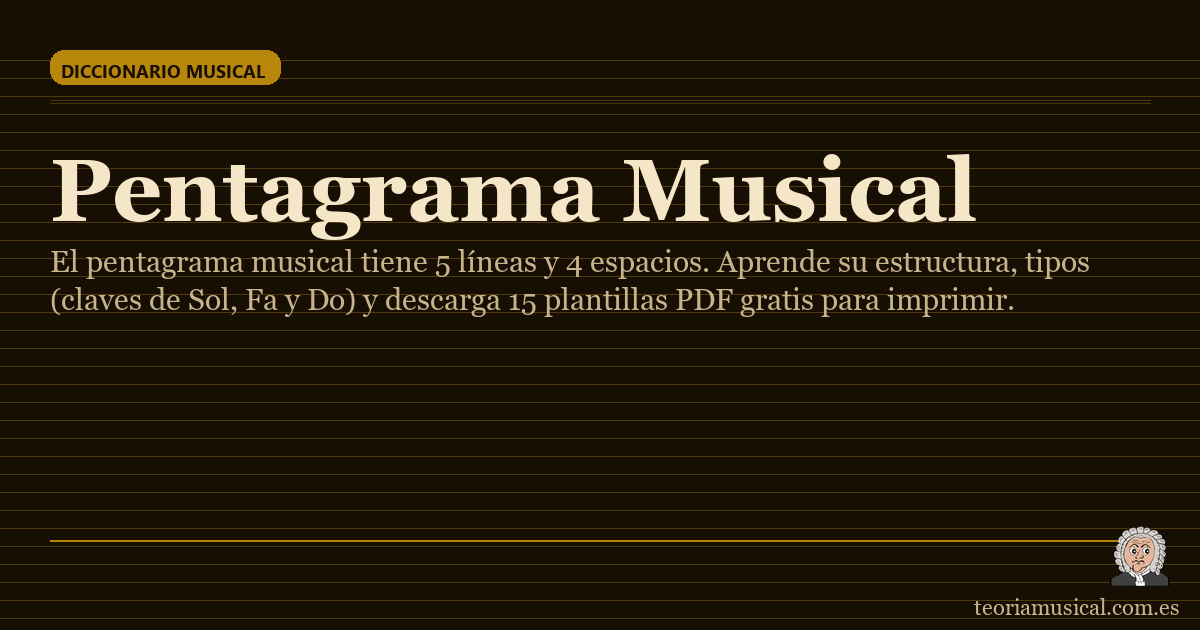
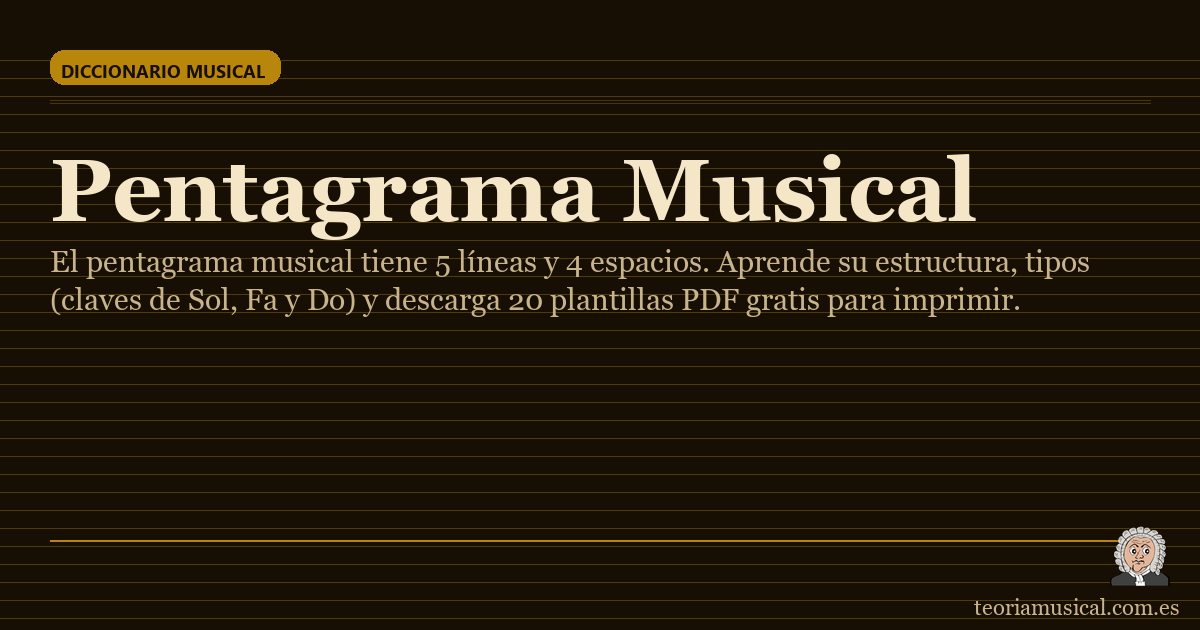
indices

Changed region(s): [[0.4317, 0.4524, 0.8325, 0.5127]]

diff --git a/diccionario-musical/indice-acustico/index.html b/diccionario-musical/indice-acustico/index.html
@@ -1,0 +1,327 @@
+<!DOCTYPE html>
+<html lang="es">
+<head>
+<meta charset="utf-8">
+<meta name="viewport" content="width=device-width, initial-scale=1">
+<title>Índice Acústico: Sistema Internacional y Franco-Belga</title>
+<meta name="description" content="El índice acústico numera las octavas para nombrar cada nota. Diferencias entre el sistema internacional (Do central = Do4) y el franco-belga (Do3), con tabla de equivalencias.">
+<link rel="canonical" href="https://www.teoriamusical.com.es/diccionario-musical/indice-acustico/">
+<meta property="og:title" content="Índice Acústico: Sistema Internacional y Franco-Belga">
+<meta property="og:description" content="El índice acústico numera las octavas para nombrar cada nota. Diferencias entre el sistema internacional (Do central = Do4) y el franco-belga (Do3), con tabla de equivalencias.">
+<meta property="og:image" content="https://www.teoriamusical.com.es/assets/img/og-pages/og-diccionario-musical-indice-acustico.png">
+<meta property="og:type" content="article">
+<meta property="og:url" content="https://www.teoriamusical.com.es/diccionario-musical/indice-acustico/">
+<meta property="og:locale" content="es_ES">
+<meta property="og:site_name" content="Teoría Musical">
+<meta name="twitter:card" content="summary_large_image">
+<meta name="twitter:title" content="Índice Acústico: Sistema Internacional y Franco-Belga">
+<meta name="twitter:description" content="El índice acústico numera las octavas para nombrar cada nota. Diferencias entre el sistema internacional (Do central = Do4) y el franco-belga (Do3), con tabla de equivalencias.">
+<meta name="twitter:image" content="https://www.teoriamusical.com.es/assets/img/og-pages/og-diccionario-musical-indice-acustico.png">
+<meta name="robots" content="index, follow, max-snippet:-1, max-image-preview:large, max-video-preview:-1">
+<link rel="icon" href="/assets/img/favicon.png" type="image/png">
+
+<!-- Google Search Console verification -->
+<meta name="google-site-verification" content="-bWygyA80PPsmSsmf6FQ_oZs6YeGjN95HzprqD07fos">
+
+<!-- Google Consent Mode v2 — defaults denied until user consents -->
+<script>
+  window['googlefc'] = window['googlefc'] || {};
+  window['googlefc'].controlledMessagingFunction = function(m){ m.proceed(false); };
+  window.dataLayer = window.dataLayer || [];
+  function gtag(){dataLayer.push(arguments);}
+  gtag('consent', 'default', {
+    'ad_storage':            'denied',
+    'ad_user_data':          'denied',
+    'ad_personalization':    'denied',
+    'analytics_storage':     'denied',
+    'functionality_storage': 'granted',
+    'security_storage':      'granted',
+    'wait_for_update':       500
+  });
+  try {
+    var m = document.cookie.match('(?:^|; )tm_cookie_consent=([^;]*)');
+    if (m) {
+      var p = JSON.parse(decodeURIComponent(m[1]));
+      gtag('consent', 'update', {
+        analytics_storage:  p.analytics   ? 'granted' : 'denied',
+        ad_storage:         p.advertising ? 'granted' : 'denied',
+        ad_user_data:       p.advertising ? 'granted' : 'denied',
+        ad_personalization: p.advertising ? 'granted' : 'denied'
+      });
+    }
+  } catch (e) {}
+</script>
+
+<link rel="preload" href="/assets/fonts/inter-latin.woff2" as="font" type="font/woff2" crossorigin>
+<link rel="preload" href="/assets/fonts/playfair-latin.woff2" as="font" type="font/woff2" crossorigin>
+<link rel="stylesheet" href="/assets/css/style.css?v=3d026e09">
+
+<script type="application/ld+json">
+{"@context":"https://schema.org","@type":"Article","headline":"Índice Acústico","description":"El índice acústico numera las octavas para nombrar cada nota. Diferencias entre el sistema internacional (Do central = Do4) y el franco-belga (Do3), con tabla de equivalencias.","url":"https://www.teoriamusical.com.es/diccionario-musical/indice-acustico/","inLanguage":"es","isAccessibleForFree":true,"image":{"@type":"ImageObject","url":"https://www.teoriamusical.com.es/assets/img/og-pages/og-diccionario-musical-indice-acustico.png"},"datePublished":"2026-06-08","dateModified":"2026-06-08","author":{"@type":"Person","name":"Eduardo Escrig Zomeño","url":"https://www.teoriamusical.com.es/sobre-mi/"},"mainEntityOfPage":{"@type":"WebPage","@id":"https://www.teoriamusical.com.es/diccionario-musical/indice-acustico/"},"publisher":{"@type":"Organization","name":"Teoría Musical","url":"https://www.teoriamusical.com.es","logo":{"@type":"ImageObject","url":"https://www.teoriamusical.com.es/assets/img/favicon.png"}}}
+</script>
+<script type="application/ld+json">
+{"@context":"https://schema.org","@type":"BreadcrumbList","itemListElement":[{"@type":"ListItem","position":1,"name":"Inicio","item":"https://www.teoriamusical.com.es/"},{"@type":"ListItem","position":2,"name":"Diccionario Musical","item":"https://www.teoriamusical.com.es/diccionario-musical/"},{"@type":"ListItem","position":3,"name":"Índice Acústico","item":"https://www.teoriamusical.com.es/diccionario-musical/indice-acustico/"}]}
+</script>
+<script type="application/ld+json">
+{"@context":"https://schema.org","@type":"FAQPage","mainEntity":[{"@type":"Question","name":"¿Qué es el índice acústico?","acceptedAnswer":{"@type":"Answer","text":"El índice acústico es el número que se añade al nombre de una nota para indicar a qué octava pertenece, y así identificar su altura exacta. Por ejemplo, Do3 y Do4 son dos «do» distintos separados por una octava. Sirve para no confundir notas con el mismo nombre pero distinta altura."}},{"@type":"Question","name":"¿El Do central es Do3 o Do4?","acceptedAnswer":{"@type":"Answer","text":"Depende del sistema. En el sistema internacional o científico, el Do central del piano (261,63 Hz) es Do4. En el sistema franco-belga, el más usado en España y los conservatorios de tradición francesa, ese mismo Do central es Do3. Es la misma nota; solo cambia el número."}},{"@type":"Question","name":"¿En qué se diferencian el índice internacional y el franco-belga?","acceptedAnswer":{"@type":"Answer","text":"En el punto de partida de la numeración. El número del sistema franco-belga es siempre una unidad menor que el del internacional: el Do central es Do4 en internacional y Do3 en franco-belga, y el La del diapasón (440 Hz) es La4 e La3 respectivamente. La nota suena igual; solo cambia la cifra del índice."}},{"@type":"Question","name":"¿Qué sistema se usa en España?","acceptedAnswer":{"@type":"Answer","text":"En España y en los conservatorios de tradición francesa y belga se usa tradicionalmente el sistema franco-belga (Do central = Do3). El sistema internacional o científico (Do central = Do4) es el estándar en el resto del mundo y el que emplean los programas de edición musical, sintetizadores y MIDI."}},{"@type":"Question","name":"¿Cómo se convierte de un sistema a otro?","acceptedAnswer":{"@type":"Answer","text":"Basta con sumar o restar 1 al número. Para pasar de franco-belga a internacional se suma 1 (Do3 → Do4); para pasar de internacional a franco-belga se resta 1 (La4 → La3). El nombre de la nota no cambia, solo el índice."}}]}
+</script>
+</head>
+<body class="tm-page">
+<a class="tm-skip" href="#main">Saltar al contenido</a>
+
+<!-- Cookie consent (RGPD) -->
+<div id="tm-cookie-overlay" role="dialog" aria-modal="true" aria-labelledby="tm-cookie-title">
+  <div id="tm-cookie-modal">
+    <div id="tm-cookie-icon" aria-hidden="true">
+      <svg width="40" height="40" viewBox="0 0 40 40" fill="none" xmlns="http://www.w3.org/2000/svg">
+        <circle cx="20" cy="20" r="18.5" stroke="#b8860b" stroke-width="1.5" fill="#faf8f4"/>
+        <circle cx="14" cy="15" r="2.2" fill="#b8860b"/>
+        <circle cx="24" cy="13" r="1.7" fill="#b8860b"/>
+        <circle cx="27" cy="24" r="2.2" fill="#b8860b"/>
+        <circle cx="16" cy="26" r="1.7" fill="#b8860b"/>
+        <circle cx="21" cy="20" r="1.1" fill="#b8860b"/>
+      </svg>
+    </div>
+    <h2 id="tm-cookie-title">Usamos cookies</h2>
+    <p id="tm-cookie-desc">
+      Utilizamos cookies propias —necesarias para el funcionamiento del sitio— y de
+      terceros para análisis del tráfico y publicidad. Puedes aceptarlas, rechazar las
+      opcionales o configurarlas según tus preferencias.
+      <a href="/politica-de-cookies/" id="tm-privacy-link" rel="noopener noreferrer">Política de cookies</a>.
+    </p>
+    <div id="tm-cookie-panel" hidden>
+      <div class="tm-toggle-row">
+        <div class="tm-toggle-info">
+          <strong>Necesarias</strong>
+          <span>Imprescindibles para el funcionamiento del sitio. No se pueden desactivar.</span>
+        </div>
+        <div class="tm-toggle-wrap tm-toggle-forced">
+          <input type="checkbox" id="tm-chk-necessary" checked disabled>
+          <label for="tm-chk-necessary" class="tm-switch-label"></label>
+        </div>
+      </div>
+      <div class="tm-toggle-row">
+        <div class="tm-toggle-info">
+          <strong>Analíticas</strong>
+          <span>Miden el tráfico y el comportamiento de navegación (Google Analytics 4).</span>
+        </div>
+        <div class="tm-toggle-wrap">
+          <input type="checkbox" id="tm-chk-analytics">
+          <label for="tm-chk-analytics" class="tm-switch-label"></label>
+        </div>
+      </div>
+      <div class="tm-toggle-row">
+        <div class="tm-toggle-info">
+          <strong>Publicitarias</strong>
+          <span>Permiten mostrar anuncios relevantes según tus intereses (Google AdSense).</span>
+        </div>
+        <div class="tm-toggle-wrap">
+          <input type="checkbox" id="tm-chk-advertising">
+          <label for="tm-chk-advertising" class="tm-switch-label"></label>
+        </div>
+      </div>
+    </div>
+    <div id="tm-cookie-actions">
+      <button id="tm-btn-accept"    class="tm-btn tm-btn-primary">Aceptar todo</button>
+      <button id="tm-btn-necessary" class="tm-btn tm-btn-secondary">Solo necesarias</button>
+      <button id="tm-btn-configure" class="tm-btn tm-btn-link">Configurar</button>
+      <button id="tm-btn-save"      class="tm-btn tm-btn-primary" hidden>Guardar preferencias</button>
+    </div>
+  </div>
+</div>
+<button id="tm-cookie-trigger" aria-label="Gestionar cookies" title="Gestionar cookies" hidden>
+  <svg width="20" height="20" viewBox="0 0 40 40" fill="none" xmlns="http://www.w3.org/2000/svg">
+    <circle cx="20" cy="20" r="18.5" stroke="currentColor" stroke-width="2" fill="none"/>
+    <circle cx="14" cy="15" r="2.2" fill="currentColor"/>
+    <circle cx="24" cy="13" r="1.7" fill="currentColor"/>
+    <circle cx="27" cy="24" r="2.2" fill="currentColor"/>
+    <circle cx="16" cy="26" r="1.7" fill="currentColor"/>
+    <circle cx="21" cy="20" r="1.1" fill="currentColor"/>
+  </svg>
+</button>
+<script src="/assets/js/consent.js?v=61ac92f0" defer></script>
+
+<header class="tm-site-header">
+  <div class="tm-container tm-header-inner">
+    <a class="tm-brand" href="/">
+      <span class="tm-brand-mark"><img src="/assets/img/favicon-32.png" width="32" height="32" alt=""></span>
+      <span class="tm-brand-text">Teoría Musical</span>
+    </a>
+    <button class="tm-nav-toggle" aria-label="Menú" aria-expanded="false" aria-controls="tm-nav">
+      <span></span><span></span><span></span>
+    </button>
+    <nav id="tm-nav" class="tm-nav" aria-label="Principal">
+      <ul class="tm-nav-list">
+        <li><a href="/" class="">Inicio</a></li>
+        <li><a href="/diccionario-musical/" class="is-active">Diccionario Musical</a></li>
+        <li><a href="/ejercicios/" class="">Ejercicios</a></li>
+        <li class="tm-has-sub"><a href="/herramientas/" class="">Herramientas</a>
+        <ul class="tm-subnav">
+          <li><a href="/herramientas/metronomo/">Metrónomo</a></li>
+          <li><a href="/herramientas/afinador/">Afinador</a></li>
+        </ul>
+      </li>
+        <li><a href="/blog/" class="">Blog</a></li>
+        <li><a href="/test-tecnico-de-laboratorio/" class="">Test Laboratorio</a></li>
+      </ul>
+    </nav>
+  </div>
+</header>
+
+<main id="main" class="tm-main">
+
+  <nav class="tm-breadcrumb" aria-label="Migas">
+    <div class="tm-container">
+      <a href="/">Inicio</a><span class="tm-crumb-sep">›</span><a href="/diccionario-musical/">Diccionario Musical</a><span class="tm-crumb-sep">›</span><span aria-current="page">Índice Acústico</span>
+    </div>
+  </nav>
+
+<header class="tm-page-header"><div class="tm-container"><h1>Índice Acústico</h1></div></header>
+<div class="tm-container tm-article-wrap">
+  <article class="tm-article tm-article--wide">
+
+<p>El <strong>índice acústico</strong> es el <strong>número</strong> que se añade al nombre de una nota para indicar a qué <strong>octava</strong> pertenece. Como el nombre «Do» se repite en cada octava, el índice nos dice <em>de qué Do</em> hablamos: el Do central, el de una octava por encima, etc. El problema es que existen <strong>dos sistemas de numeración</strong> distintos —el internacional y el franco-belga— y eso provoca que una misma nota reciba números diferentes.</p>
+
+<h2>¿Qué es el índice acústico?</h2>
+
+<p>Cada <a href="/diccionario-musical/nombres-de-las-notas-musicales/">nota</a> tiene un nombre (Do, Re, Mi…) y una <strong>altura</strong> concreta. Pero ese nombre se repite octava tras octava: hay muchos «Do» en un piano. El índice acústico resuelve la ambigüedad <strong>numerando las octavas</strong>: a cada nota se le añade la cifra de la octava a la que pertenece (Do3, La4, Fa5…). Así, <strong>Do3 y Do4 son dos notas distintas</strong> separadas por una octava.</p>
+
+<p>El número cambia cada vez que se llega a un <strong>Do</strong>: todas las notas desde un Do hasta el siguiente comparten el mismo índice. Por ejemplo, partiendo del Do central en el sistema franco-belga: Do3, Re3, Mi3, Fa3, Sol3, La3, Si3 y, al llegar al siguiente Do, empieza la serie 4.</p>
+
+<div class="tm-ad">
+<ins class="adsbygoogle" style="display:block" data-ad-client="ca-pub-1186627650857489" data-ad-slot="3473898651" data-ad-format="auto" data-full-width-responsive="true"></ins>
+</div>
+
+<h2>El sistema internacional (o científico)</h2>
+
+<p>El <strong>índice acústico internacional</strong> —también llamado <strong>científico</strong> (<em>Scientific Pitch Notation</em>)— es el estándar en la mayor parte del mundo. Numera las octavas empezando por la más grave: asigna el <strong>0</strong> al Do más grave del órgano (Do0, de 16,35 Hz). En este sistema:</p>
+
+<ul>
+  <li>El <strong>Do central</strong> del piano (261,63 Hz) es el <strong>Do4</strong>.</li>
+  <li>El <strong>La del diapasón</strong> (440 Hz) es el <strong>La4</strong>.</li>
+</ul>
+
+<p>Es el sistema que utilizan los <strong>programas de edición musical</strong>, los sintetizadores, el protocolo MIDI y la mayoría de la bibliografía internacional.</p>
+
+<h2>El sistema franco-belga</h2>
+
+<p>El <strong>índice acústico franco-belga</strong> es el que se usa tradicionalmente en <strong>España</strong> y en los conservatorios de tradición francesa y belga. Numera las octavas con un punto de partida distinto, de modo que el mismo Do central recibe un número una unidad menor:</p>
+
+<ul>
+  <li>El <strong>Do central</strong> del piano (261,63 Hz) es el <strong>Do3</strong>.</li>
+  <li>El <strong>La del diapasón</strong> (440 Hz) es el <strong>La3</strong>.</li>
+</ul>
+
+<p>Para las notas más graves, este sistema recurre a <strong>índices negativos</strong> (Do₋₁, Do₋₂…). El Do más grave del órgano, que en el sistema internacional es Do0, aquí se llama Do₋₁.</p>
+
+<h2>Tabla de equivalencias</h2>
+
+<p>La regla es sencilla: <strong>el número del sistema franco-belga es siempre una unidad menor que el del internacional.</strong> La nota suena exactamente igual; solo cambia la cifra. Esta tabla recoge las octavas del Do en el rango musical habitual:</p>
+
+<div class="tm-table-wrap">
+<table class="tm-table">
+  <thead>
+    <tr><th>Internacional (científico)</th><th>Franco-belga</th><th>Referencia</th></tr>
+  </thead>
+  <tbody>
+    <tr><td>Do0</td><td>Do₋₁</td><td>Do más grave del órgano (16,35 Hz)</td></tr>
+    <tr><td>Do1</td><td>Do0</td><td>—</td></tr>
+    <tr><td>Do2</td><td>Do1</td><td>Do en la 2ª línea adicional inferior (clave de Fa)</td></tr>
+    <tr><td>Do3</td><td>Do2</td><td>—</td></tr>
+    <tr><td><strong>Do4</strong></td><td><strong>Do3</strong></td><td><strong>Do central (261,63 Hz)</strong></td></tr>
+    <tr><td>Do5</td><td>Do4</td><td>—</td></tr>
+    <tr><td>Do6</td><td>Do5</td><td>—</td></tr>
+    <tr><td>Do7</td><td>Do6</td><td>—</td></tr>
+    <tr><td>Do8</td><td>Do7</td><td>Casi el límite agudo del piano</td></tr>
+  </tbody>
+</table>
+</div>
+
+<p>Y el caso más citado, el <strong>La del diapasón</strong>: es <strong>La4</strong> en el sistema internacional y <strong>La3</strong> en el franco-belga, las dos a 440 Hz.</p>
+
+<h2>¿Cuál debo usar?</h2>
+
+<p>Depende del contexto. Si estudias en un <strong>conservatorio español</strong> o con material de tradición franco-belga, usarás <strong>Do3</strong> como Do central. Si trabajas con <strong>software musical, sintetizadores o bibliografía internacional</strong>, el Do central será <strong>Do4</strong>. Lo importante es <strong>indicar siempre qué sistema usas</strong> para evitar malentendidos: la misma cifra señala notas distintas según el sistema. Para convertir, basta con sumar 1 (de franco-belga a internacional) o restar 1 (de internacional a franco-belga).</p>
+
+<p>Este índice se apoya en conceptos como el <a href="/diccionario-musical/pentagramas/">pentagrama</a>, las <a href="/diccionario-musical/claves-musicales/">claves</a> y los <a href="/diccionario-musical/nombres-de-las-notas-musicales/">nombres de las notas</a>: el Do central, por ejemplo, es la nota de referencia que une la clave de Sol y la clave de Fa.</p>
+
+<section class="tm-seccion">
+<div class="tm-seccion-inner">
+<div class="tm-seccion-cabecera">
+<h2 class="tm-seccion-titulo">Preguntas <span>Frecuentes</span></h2>
+</div>
+<div>
+<div class="tm-faq-list">
+<div class="tm-faq-item">
+<div class="tm-faq-q">¿Qué es el índice acústico?</div>
+<div class="tm-faq-a">El índice acústico es el número que se añade al nombre de una nota para indicar a qué octava pertenece, y así identificar su altura exacta. Por ejemplo, Do3 y Do4 son dos «do» distintos separados por una octava. Sirve para no confundir notas con el mismo nombre pero distinta altura.</div>
+</div>
+<div class="tm-faq-item">
+<div class="tm-faq-q">¿El Do central es Do3 o Do4?</div>
+<div class="tm-faq-a">Depende del sistema. En el sistema internacional o científico, el Do central del piano (261,63 Hz) es Do4. En el sistema franco-belga, el más usado en España y los conservatorios de tradición francesa, ese mismo Do central es Do3. Es la misma nota; solo cambia el número.</div>
+</div>
+<div class="tm-faq-item">
+<div class="tm-faq-q">¿En qué se diferencian el índice internacional y el franco-belga?</div>
+<div class="tm-faq-a">En el punto de partida de la numeración. El número del sistema franco-belga es siempre una unidad menor que el del internacional: el Do central es Do4 en internacional y Do3 en franco-belga, y el La del diapasón (440 Hz) es La4 y La3 respectivamente. La nota suena igual; solo cambia la cifra del índice.</div>
+</div>
+<div class="tm-faq-item">
+<div class="tm-faq-q">¿Qué sistema se usa en España?</div>
+<div class="tm-faq-a">En España y en los conservatorios de tradición francesa y belga se usa tradicionalmente el sistema franco-belga (Do central = Do3). El sistema internacional o científico (Do central = Do4) es el estándar en el resto del mundo y el que emplean los programas de edición musical, sintetizadores y MIDI.</div>
+</div>
+<div class="tm-faq-item">
+<div class="tm-faq-q">¿Cómo se convierte de un sistema a otro?</div>
+<div class="tm-faq-a">Basta con sumar o restar 1 al número. Para pasar de franco-belga a internacional se suma 1 (Do3 → Do4); para pasar de internacional a franco-belga se resta 1 (La4 → La3). El nombre de la nota no cambia, solo el índice.</div>
+</div>
+</div>
+</div>
+</div>
+</section>
+
+<div class="tm-ad">
+<ins class="adsbygoogle" style="display:block" data-ad-client="ca-pub-1186627650857489" data-ad-slot="2439863051" data-ad-format="auto" data-full-width-responsive="true"></ins>
+</div>
+
+</article>
+</div>
+
+</main>
+
+<footer class="tm-site-footer">
+  <div class="tm-container tm-footer-inner">
+    <div class="tm-footer-col">
+      <h3>Teoría Musical</h3>
+      <p>Música desde sus fundamentos: diccionario, ejercicios interactivos y herramientas gratuitas.</p>
+    </div>
+    <div class="tm-footer-col">
+      <h3>Secciones</h3>
+      <ul>
+        <li><a href="/diccionario-musical/">Diccionario Musical</a></li>
+        <li><a href="/ejercicios/">Ejercicios Musicales</a></li>
+        <li class="tm-has-sub"><a href="/herramientas/">Herramientas</a>
+        <ul class="tm-subnav">
+          <li><a href="/herramientas/metronomo/">Metrónomo</a></li>
+          <li><a href="/herramientas/afinador/">Afinador</a></li>
+        </ul>
+      </li>
+        <li><a href="/blog/">Blog</a></li>
+      </ul>
+    </div>
+    <div class="tm-footer-col">
+      <h3>Información</h3>
+      <ul>
+        <li><a href="/sobre-mi/">Sobre mí</a></li>
+        <li><a href="/contacto/">Contacto</a></li>
+        <li><a href="/aviso-legal/">Aviso legal</a></li>
+        <li><a href="/politica-de-privacidad/">Política de privacidad</a></li>
+        <li><a href="/politica-de-cookies/">Política de cookies</a></li>
+      </ul>
+    </div>
+  </div>
+  <div class="tm-footer-bottom">
+    <p>© <span id="tm-year"></span> Teoría Musical — Eduardo Escrig Zomeño. Todos los derechos reservados.</p>
+  </div>
+</footer>
+
+<script src="/assets/js/main.js?v=58d478c2" defer></script>
+</body>
+</html>

diff --git a/diccionario-musical/index.html b/diccionario-musical/index.html
@@ -305,6 +305,11 @@
     <div class="tm-card-dic-titulo">Claves Musicales</div>
     <div class="tm-card-dic-desc">Clave de sol, fa y do. Cómo leer notas según la clave.</div>
   </a>
+  <a href="/diccionario-musical/indice-acustico/" class="tm-card-dic">
+    <div class="tm-card-dic-icono">Do₄</div>
+    <div class="tm-card-dic-titulo">Índice Acústico</div>
+    <div class="tm-card-dic-desc">Numerar las octavas: sistema internacional (Do4) y franco-belga (Do3).</div>
+  </a>
   <a href="/diccionario-musical/alteraciones/" class="tm-card-dic">
     <div class="tm-card-dic-icono">♯♭</div>
     <div class="tm-card-dic-titulo">Alteraciones</div>

diff --git a/diccionario-musical/claves-musicales/index.html b/diccionario-musical/claves-musicales/index.html
@@ -416,7 +416,7 @@
 
 <h2 id="h-equivalencias">Equivalencias entre claves</h2>
 
-<p>Todas las claves representan los mismos sonidos; lo único que cambia es <strong>dónde se coloca cada altura</strong> en el pentagrama. El punto de referencia común es el <strong>Do central</strong>: una misma nota se escribe en una posición distinta en cada clave. Por eso, al cambiar de clave, una nota «sube» o «baja» de línea aunque suene exactamente igual.</p>
+<p>Todas las claves representan los mismos sonidos; lo único que cambia es <strong>dónde se coloca cada altura</strong> en el pentagrama. El punto de referencia común es el <strong>Do central</strong>: una misma nota se escribe en una posición distinta en cada clave. Por eso, al cambiar de clave, una nota «sube» o «baja» de línea aunque suene exactamente igual. Para nombrar a qué octava pertenece cada nota (por ejemplo Do3 o Do4) se usa el <a href="/diccionario-musical/indice-acustico/">índice acústico</a>.</p>
 
 <figure class="tm-staff">
 <picture><source type="image/webp" srcset="/assets/img/claves/equivalencia-claves-do-central.webp"><img src="/assets/img/claves/equivalencia-claves-do-central.png" width="1080" height="168" loading="lazy" alt="El mismo Do central escrito en las siete claves: clave de Sol en 2ª, Do en 1ª, 2ª, 3ª y 4ª, y Fa en 3ª y 4ª"></picture>